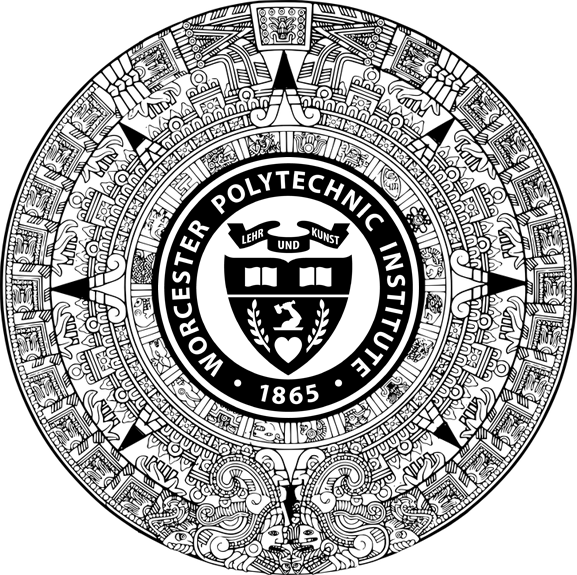
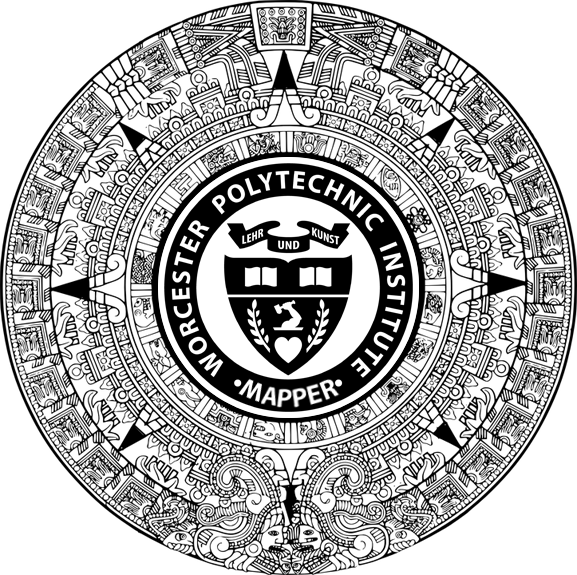
Updated Image on Splash Screen!!

Changed region(s): [[0.4055, 0.6504, 0.5927, 0.7096]]

diff --git a/src/main/java/AppLauncher.java b/src/main/java/AppLauncher.java
@@ -18,7 +18,7 @@ public class AppLauncher{
         try {
             //Set up loading screen
             JSplash splashscreen = new JSplash(AppLauncher.class.getResource ("Aztec_Wash.png"),
-                    true, true, false, "AZTEC WASH Mapper", null, Color.BLACK, Color.BLUE);
+                    true, true, false, "", null, Color.BLACK, Color.BLUE);
             splashscreen.splashOn();
             splashscreen.setProgress(15, "Initializing....");
             Thread.sleep(10);
